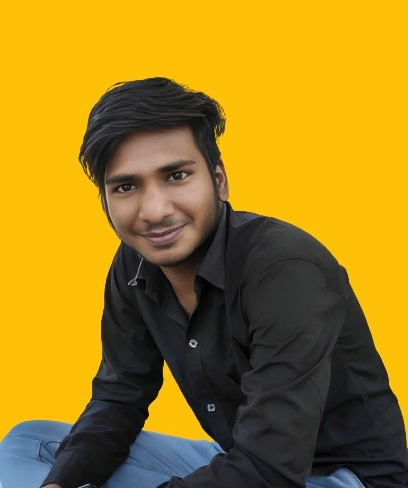
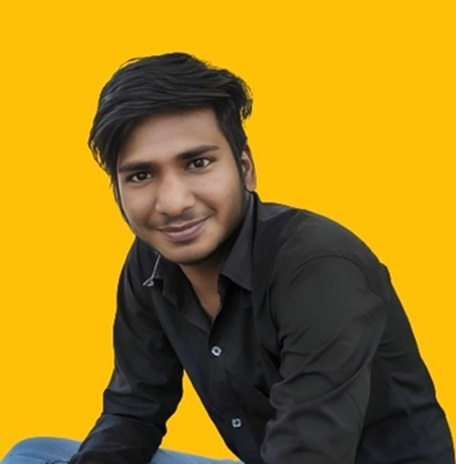
projects section done

diff --git a/src/data/project.js b/src/data/project.js
@@ -1,0 +1,92 @@
+const projects = [
+  {
+    name: "LMS MERN",
+    desc: "Built a scalable Learning Management System (LMS) using the MERN stack for seamless online education.",
+    image:
+      "https://res.cloudinary.com/di3wqoq9z/image/upload/v1706955446/qxopiuf745jjkbs7aki4.png",
+    category: "mern",
+    links: {
+      view: "https://learning-blue.vercel.app/",
+      code: "https://github.com/PrinceInScripts/LMS-Website",
+    },
+  },
+  {
+    name: "Blog App MERN",
+    desc: "A dynamic and user-friendly blog application using the MERN stack, providing an intuitive platform for content creation, publication, and engagement.",
+    image:
+      "https://res.cloudinary.com/di3wqoq9z/image/upload/v1706955576/boqz6vlwwusupmt4vwjv.png",
+    category: "mern",
+    links: {
+      view: "https://write-wave.vercel.app/",
+      code: "https://github.com/PrinceInScripts/Blog-App",
+    },
+  },
+  {
+    name: "Weather App",
+    desc: "A user-friendly Weather App for real-time weather information and forecasts.",
+    image:
+      "https://res.cloudinary.com/di3wqoq9z/image/upload/v1706955554/amf6bkae0ngnadpiziyz.png",
+    category: "mern",
+    links: {
+      view: "https://climatetrack.vercel.app/",
+      code: "https://github.com/PrinceInScripts/Weather-App",
+    },
+  },
+  {
+    name: "Task Management",
+    desc: "An efficient Task Management App to help users organize, prioritize, and track their tasks for improved productivity.",
+    image:
+      "https://res.cloudinary.com/di3wqoq9z/image/upload/v1706955741/bdcpzixj3g2ugklzqyaf.png",
+    category: "mern",
+    links: {
+      view: "https://taskprince.vercel.app/",
+      code: "https://github.com/PrinceInScripts/WebTodoApp",
+    },
+  },
+  {
+    name: "Registration MERN",
+    desc: "A secure Registration Page allowing users to sign up and log in, with information securely stored in MongoDB for persistent data.",
+    image:
+      "https://res.cloudinary.com/di3wqoq9z/image/upload/v1706955656/ebghe2lz0q9ybxiubyqd.png",
+    category: "mern",
+    links: {
+      view: "https://registrationforntend.onrender.com/",
+      code: "https://github.com/PrinceInScripts/RegistrationPage",
+    },
+  },
+  {
+    name: "Currency Changer",
+    desc: "A Currency Changer app to provide users with real-time currency conversion, making it easy to stay updated on exchange rates.",
+    image:
+      "https://res.cloudinary.com/di3wqoq9z/image/upload/v1706955850/mkxoadk7z50olubir0ac.png",
+    category: "mern",
+    links: {
+      view: "https://currency-changer-tan.vercel.app/",
+      code: "https://github.com/PrinceInScripts/CurrencyConvertor",
+    },
+  },
+  {
+    name: "Todo App",
+    desc: "A straightforward Todo App to help users manage and organize their tasks efficiently.",
+    image:
+      "https://res.cloudinary.com/di3wqoq9z/image/upload/v1706955863/d7689enqmbrwad3hmbpe.png",
+    category: "mern",
+    links: {
+      view: "https://handle-todos.vercel.app/",
+      code: "https://github.com/PrinceInScripts/MnagageTodo",
+    },
+  },
+  {
+    name: "Portfolio",
+    desc: "a dynamic and modern Portfolio Website using Vite and React to showcase professional achievements, skills, and projects.",
+    image:
+      "https://res.cloudinary.com/di3wqoq9z/image/upload/v1706977243/emtssqsyt2nxrsg1p1ru.png",
+    category: "mern",
+    links: {
+      view: "",
+      code: "https://github.com/PrinceInScripts/My-Portfolio",
+    },
+  },
+];
+
+export default projects;

diff --git a/src/components/Project/Project.css b/src/components/Project/Project.css
@@ -1,0 +1,141 @@
+.work{
+    min-height: 90vh;
+    background: linear-gradient(to bottom, #000031, #00002c);
+}
+
+.work h2{
+    color: #fff;
+    padding: 1rem;
+}
+.work .heading span{
+    color: rgb(255,230,0);
+}
+.work .box-container{
+    display: flex;
+    flex-wrap: wrap;
+    gap: 1.5rem;
+}
+.work .box-container .box {
+    flex: 1 1 30rem;
+    border-radius: 0.5rem;
+    box-shadow: 0 0.5rem 1rem rgba(0, 0, 0, 0.1);
+    position: relative;
+    overflow: hidden;
+    min-height: 30rem;
+  }
+  .work .box-container .box img {
+    height: 100%;
+    width: 100%;
+}
+.work .box-container .box .content {
+    height: 100%;
+    width: 100%;
+    position: absolute;
+    top: 85%;
+    left: 0;
+    background: rgba(255, 255, 255, 0.9);
+    display: flex;
+    flex-direction: column;
+  }
+  .work .box-container .box .content .tag {
+    display: flex;
+    flex-direction: row;
+    justify-content: space-between;
+    align-items: center;
+    height: 4.5rem;
+    width: 100%;
+    padding-left: 1rem;
+    background: #ffd900;
+  }
+.work .box-container .box .content .tag h3 {
+    font-size: 2rem;
+}
+.work .box-container .box:hover .content {
+    top: 25%;
+}
+.work .desc{
+    margin: 2rem;
+    display: flex;
+    flex-direction: column;
+    justify-content: center;
+}
+.work .desc p {
+    font-size: 1.5rem;
+  }
+  .work .desc .btns {
+    display: flex;
+    justify-content: space-between;
+    width: 100%;
+    margin-top: 2rem;
+}
+.work .desc .btns .btn {
+    line-height: 0;
+    display: inline;
+    padding: 1.5rem 2.5rem;
+    border-radius: 0.5rem;
+    font-size: 1.5rem;
+    color: #fff;
+    background: rgb(12, 12, 12);
+    margin-right: 2rem;
+  }
+  .work .desc .btns .btn:hover {
+    background: #310ae0f5;
+  }
+  .work .viewall {
+    display: flex;
+    justify-content: center;
+  }
+  .work .viewall .btn {
+    position: relative;
+    line-height: 0;
+    padding: 1.6rem 3rem;
+    border-radius: 0.5em;
+    transition: 0.5s;
+    color: rgb(255, 255, 255);
+    font-weight: 700;
+    border: 2px solid #fff;
+    box-shadow: 0px 5px 10px rgba(65, 84, 241, 0.4);
+    text-align: center;
+  }
+  .work .viewall .btn span {
+    font-weight: 600;
+    font-size: 1.7rem;
+    font-family: "Nunito", sans-serif;
+  }
+  .work .viewall .btn:hover {
+    background: #fff;
+    color: #000;
+  }
+  @media screen and (max-width: 600px) {
+    .work{
+        height: auto;
+    }
+    .work .box-container{
+        display: flex;
+       flex-direction: column;
+       justify-content: space-between;
+      
+    }
+    .work .box-container .box {
+        width: 100%;
+        margin-bottom: 30rem;
+        overflow: visible; 
+        
+    }
+
+    .work .box-container .box .content {
+        height: auto; 
+        width: 100%;
+        position: relative;
+        top: auto; 
+        left: 0;
+        background: rgba(255, 255, 255, 0.9);
+        display: flex;
+        flex-direction: column;
+        transition: top 0.5s; 
+    }
+
+    .work .box-container .box:hover .content {
+        top: auto; 
+    }
+}

diff --git a/src/components/Project/Project.jsx b/src/components/Project/Project.jsx
@@ -1,0 +1,65 @@
+import React from "react";
+import projects from "../../data/project";
+import VanillaTilt from "vanilla-tilt";
+import { useEffect } from "react";
+import { FaEye } from "react-icons/fa";
+import "./Project.css";
+
+function Project() {
+  function showProjects(projects) {
+    let projectsContainer = document.querySelector("#work .box-container");
+    let projectHTML = "";
+    projects
+      .slice(0, 10)
+      .filter((project) => project.category != "android")
+      .forEach((project) => {
+        projectHTML += `
+        <div class="box tilt">
+      <img draggable="false" src="${project.image}" alt="project" />
+      <div class="content">
+        <div class="tag">
+        <h3>${project.name}</h3>
+        </div>
+        <div class="desc">
+          <p>${project.desc}</p>
+          <div class="btns">
+            <a href="${project.links.view}" class="btn" target="_blank"> View</a>
+            <a href="${project.links.code}" class="btn" target="_blank">Code </a>
+          </div>
+        </div>
+      </div>
+    </div>`;
+      });
+    projectsContainer.innerHTML = projectHTML;
+
+    VanillaTilt.init(document.querySelectorAll(".tilt"), {
+      max: 15,
+    });
+  }
+
+  useEffect(() => {
+    showProjects(projects);
+    window.addEventListener("resize", () => showProjects(projects));
+    window.addEventListener("load", () => showProjects(projects));
+    return () => {
+      window.removeEventListener("resize", () => showProjects(projects));
+      window.removeEventListener("load", () => showProjects(projects));
+    };
+  }, []);
+
+  return (
+    <section class="work" id="work">
+      <h2 class="heading">
+        {" "}
+        Projects <span>Made</span>
+      </h2>
+
+      <div class="box-container">
+
+        
+      </div>
+    </section>
+  );
+}
+
+export default Project;

diff --git a/src/components/Hero/Hero.jsx b/src/components/Hero/Hero.jsx
@@ -4,6 +4,7 @@ import VanillaTilt from 'vanilla-tilt';
 import { AiFillLinkedin,AiFillInstagram,AiFillGithub,AiFillTwitterCircle } from "react-icons/ai";
 import {  FaRegArrowAltCircleDown, FaTelegram, FaUser } from "react-icons/fa";
 import hero from "../../assets/images/hero.png"
+import profile from "../../assets/images/profile.jpg"
 import "./Hero.css"
 
 function Hero() {
@@ -85,7 +86,7 @@ function Hero() {
      </div>
    </div>
    <div class="image">
-       <img draggable="false" class="tilt" src={hero} alt=""/>
+       <img draggable="false" class="tilt" src={profile} alt=""/>
    </div>
 </section>
   )

diff --git a/src/page/Home/Home.jsx b/src/page/Home/Home.jsx
@@ -5,6 +5,7 @@ import Hero from "../../components/Hero/Hero";
 import About from "../../components/About/About";
 import Skills from "../../components/Skills/Skills";
 import Education from "../../components/Education/Education";
+import Project from "../../components/Project/Project";
 
 function Home() {
   return (
@@ -19,6 +20,8 @@ function Home() {
       <Skills />
     {/* Education */}
       <Education />
+    {/* Project */}
+      <Project/>
     </>
   );
 }
